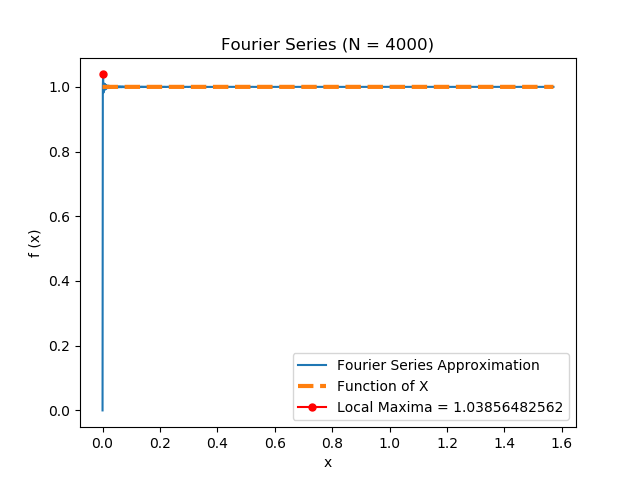
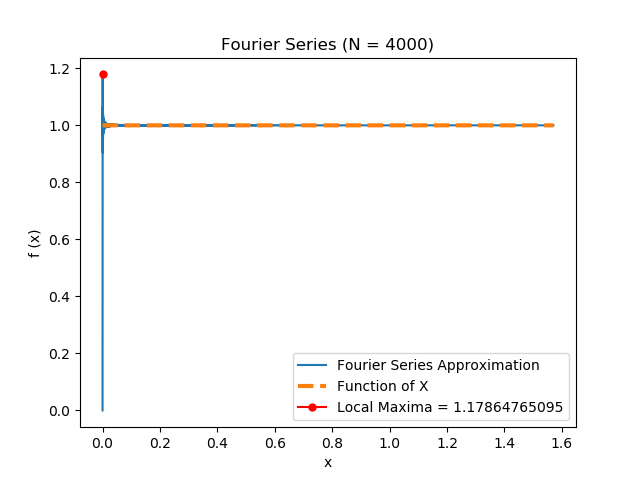
Adding files

diff --git a/Magnetic Field/MagneticFieldY.py b/Magnetic Field/MagneticFieldY.py
@@ -1,0 +1,32 @@
+import numpy as np
+import matplotlib.pyplot as mp
+from scipy.integrate import quad
+
+
+###########################################################
+# Function to get the Magnetic Field for a particular x
+###########################################################
+def getMagneticFieldAtX(x, alpha):
+    def integral(theta):
+        return np.sin(theta)/(((x**2) - 2*x*np.cos(alpha)*np.sin(theta))**1.5)
+    res, err = quad(integral, 0, 2*np.pi)
+    if (x * np.sin(alpha) * res) < 0.000001:
+        return 0
+    return x * np.sin(alpha) * res
+
+# x is the ratio of rho and a
+def plotPartB(alpha, start = 1, end = 5, stepsize = 0.1):
+    xAxis = [start + i*stepsize for i in range(int(end//stepsize) + 2)]
+    yAxis = [getMagneticFieldAtX(xValue, alpha) for xValue in xAxis]
+    mp.plot(xAxis, yAxis)
+    mp.xlabel('rho/a ( > 1.5)')
+    mp.ylabel('By/Bnot')
+    mp.title('By v/s X')
+    mp.show()
+    #mp.savefig('By v/s X')
+
+print (getMagneticFieldAtX(1.5, np.pi/2))
+
+plotPartB(0, 1.5, 10, 0.01)
+plotPartB(np.pi/4, 1.5, 10, 0.01)
+plotPartB(np.pi/2, 1.5, 10, 0.01)

diff --git a/Magnetic Field/MagneticFieldZ.py b/Magnetic Field/MagneticFieldZ.py
@@ -1,0 +1,31 @@
+import numpy as np
+import matplotlib.pyplot as mp
+from scipy.integrate import quad
+
+
+###########################################################
+# Function to get the Magnetic Field for a particular x
+###########################################################
+def getMagneticFieldAtX(x, alpha):
+    def integral(theta):
+        return (1 - x*np.cos(alpha)*np.sin(theta))/(((x**2) - 2*x*np.cos(alpha)*np.sin(theta))**1.5)
+    res, err = quad(integral, 0, 2*np.pi)
+    return res
+
+# x is the ratio of rho and a
+def plotPartB(alpha, start = 1, end = 5, stepsize = 0.1):
+    xAxis = [start + i*stepsize for i in range(int(end//stepsize) + 2)]
+    yAxis = [getMagneticFieldAtX(xValue, alpha) for xValue in xAxis]
+    mp.plot(xAxis, yAxis)
+    mp.xlabel('rho/a ( > 1.5)')
+    mp.ylabel('Bz/Bnot')
+    mp.title('Bz v/s X')
+    mp.show()
+    #mp.savefig('By v/s X')
+
+#print (getMagneticFieldAtX(2, 0))
+
+
+plotPartB(0, 1.5, 10, 0.01)
+plotPartB(np.pi/4, 1.5, 10, 0.01)
+plotPartB(np.pi/2, 1.5, 10, 0.01)

diff --git a/Fourier Series/FourierSeriesPlotting.py b/Fourier Series/FourierSeriesPlotting.py
@@ -40,4 +40,4 @@ def plotFunctionAndFourier(stepSize, upperLimitOfX, numberOfFourierSum):
     plt.show()
 
 
-plotFunctionAndFourier(0.001, np.pi/2, 400000)
+plotFunctionAndFourier(0.0001, np.pi/2, 4000)

diff --git a/Fourier Series/testing.py b/Fourier Series/testing.py
@@ -1,0 +1,6 @@
+import sympy as sym
+
+x = sym.symbols('x')
+
+f = sym.Function('f')
+print (sym.dsolve(sym.Derivative(f(x), x) + 9*f(x), f(x)))
